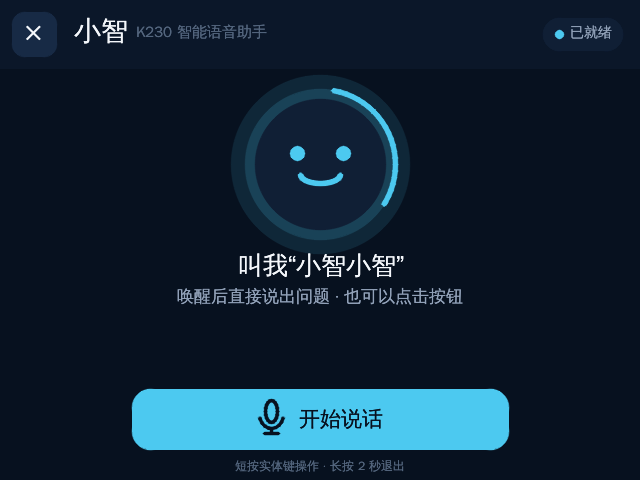
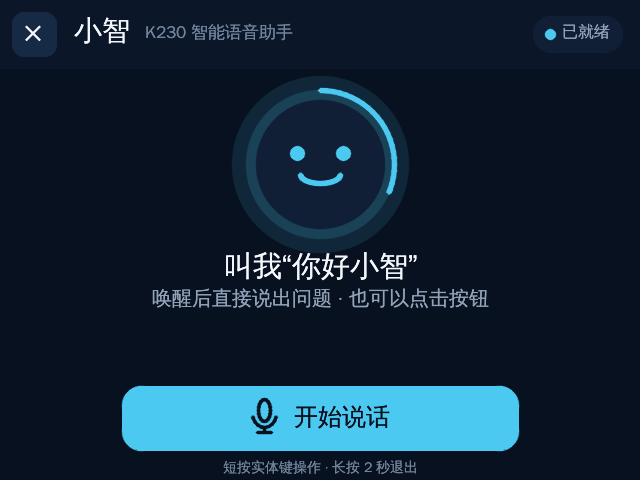
feat(xiaozhi): improve UI readability

diff --git a/app/ai-agent/xiaozhi/main.py b/app/ai-agent/xiaozhi/main.py
@@ -72,8 +72,21 @@ def _text_width(value, height):
         return len(str(value)) * height
 
 
+def fitted_text_height(value, preferred, max_width, minimum):
+    """Return the largest readable font size that fits the available width."""
+    for height in range(preferred, minimum - 1, -1):
+        if _text_width(value, height) <= max_width:
+            return height
+    return minimum
+
+
 def draw_centered(image, value, y, color, height):
     draw_text(image, value, ((SCREEN_W - _text_width(value, height)) // 2, y), color, height)
+
+
+def draw_centered_fitted(image, value, y, color, preferred, max_width, minimum):
+    height = fitted_text_height(value, preferred, max_width, minimum)
+    draw_centered(image, value, y, color, height)
 
 
 def rounded_rect(image, top_left, bottom_right, radius, color):
@@ -96,11 +109,42 @@ def mix_color(first, second, amount):
     return tuple(int(a * (1.0 - amount) + b * amount) for a, b in zip(first, second))
 
 
-def wrap_text(value, width=25, lines=2):
+def _fitting_prefix_length(value, max_width, height):
+    low, high = 1, len(value)
+    best = 1
+    while low <= high:
+        middle = (low + high) // 2
+        if _text_width(value[:middle], height) <= max_width:
+            best = middle
+            low = middle + 1
+        else:
+            high = middle - 1
+    return best
+
+
+def _ellipsize(value, max_width, height):
+    suffix = "…"
+    if _text_width(value, height) <= max_width:
+        return value
+    while value and _text_width(value + suffix, height) > max_width:
+        value = value[:-1]
+    return value.rstrip() + suffix
+
+
+def wrap_text(value, max_width=500, height=20, lines=2):
+    """Wrap mixed CJK/Latin text by rendered width rather than character count."""
     compact = " ".join(str(value or "").split())
     result = []
     while compact and len(result) < lines:
-        take = min(width, len(compact))
+        if _text_width(compact, height) <= max_width:
+            result.append(compact)
+            compact = ""
+            break
+        take = _fitting_prefix_length(compact, max_width, height)
+        if len(result) + 1 == lines:
+            result.append(_ellipsize(compact, max_width, height))
+            compact = ""
+            break
         if take < len(compact):
             # Prefer a word boundary for Latin text without harming CJK text.
             space = compact.rfind(" ", 0, take + 1)
@@ -108,8 +152,6 @@ def wrap_text(value, width=25, lines=2):
                 take = space
         result.append(compact[:take].strip())
         compact = compact[take:].strip()
-    if compact and result:
-        result[-1] = result[-1][:-1] + "…" if result[-1] else "…"
     return result
 
 
@@ -273,7 +315,7 @@ COLORS = {
     "surface_high": _bgr("#172A45"),
     "text": _bgr("#F4F7FB"),
     "muted": _bgr("#91A1B8"),
-    "faint": _bgr("#53657D"),
+    "faint": _bgr("#71839A"),
     "blue": _bgr("#4CC9F0"),
     "cyan": _bgr("#67E8F9"),
     "green": _bgr("#52E0A4"),
@@ -359,49 +401,57 @@ def compose(state, now, pressed=False, localizer=None):
     screen[:] = COLORS["bg"]
     cv2.rectangle(screen, (0, 0), (639, 68), COLORS["header"], -1)
     rounded_rect(screen, (12, 12), (56, 56), 12, COLORS["surface_high"])
-    draw_text(screen, "×", (25, 13), COLORS["text"], 28)
-    app_name = tr("app_name")
-    draw_text(screen, app_name, (74, 13), COLORS["text"], 27)
-    subtitle_x = 74 + _text_width(app_name, 27) + 18
-    draw_text(screen, tr("app_subtitle"), (subtitle_x, 22), COLORS["faint"], 15)
+    draw_text(screen, "×", (24, 12), COLORS["text"], 30)
 
     status_color = PHASE_COLORS.get(state.phase, COLORS["blue"])
     status_text = tr(STATUS_LABELS.get(state.phase, "status_running"))
-    badge_width = _text_width(status_text, 14) + 38
+    status_height = fitted_text_height(status_text, 16, 170, 14)
+    badge_width = min(186, _text_width(status_text, status_height) + 42)
     badge_left = 622 - badge_width
-    rounded_rect(screen, (badge_left, 18), (622, 50), 16, COLORS["surface"])
-    cv2.circle(screen, (badge_left + 16, 34), 4, status_color, -1, cv2.LINE_AA)
-    draw_text(screen, status_text, (badge_left + 27, 23), COLORS["muted"], 14)
+    rounded_rect(screen, (badge_left, 16), (622, 52), 18, COLORS["surface"])
+    cv2.circle(screen, (badge_left + 17, 34), 5, status_color, -1, cv2.LINE_AA)
+    draw_text(screen, status_text, (badge_left + 29, 21), COLORS["muted"], status_height)
+
+    app_name = tr("app_name")
+    app_name_height = 28
+    draw_text(screen, app_name, (74, 12), COLORS["text"], app_name_height)
+    subtitle_x = 74 + _text_width(app_name, app_name_height) + 16
+    subtitle = tr("app_subtitle")
+    subtitle_width = max(0, badge_left - subtitle_x - 14)
+    if subtitle_width >= 72:
+        subtitle_height = fitted_text_height(subtitle, 17, subtitle_width, 14)
+        draw_text(screen, subtitle, (subtitle_x, 21), COLORS["faint"], subtitle_height)
 
     _draw_orb(screen, state, now)
     color = PHASE_COLORS.get(state.phase, COLORS["blue"])
-    draw_centered(screen, state.title, 249, COLORS["text"], 25)
-    draw_centered(screen, state.detail, 285, COLORS["muted"], 17)
+    draw_centered_fitted(screen, state.title, 247, COLORS["text"], 29, 584, 23)
+    draw_centered_fitted(screen, state.detail, 285, COLORS["muted"], 20, 584, 16)
 
     if state.phase == "activating":
-        rounded_rect(screen, (160, 322), (480, 372), 14, COLORS["surface"])
+        rounded_rect(screen, (152, 316), (488, 378), 15, COLORS["surface"])
         spaced = "  ".join(state.activation_code or "------")
-        draw_centered(screen, spaced, 332, COLORS["purple"], 27)
+        draw_centered_fitted(screen, spaced, 330, COLORS["purple"], 30, 304, 24)
     elif state.answer or state.transcript:
         message = state.answer if state.phase == "speaking" and state.answer else state.transcript
-        rounded_rect(screen, (52, 316), (588, 374), 14, COLORS["surface"])
-        for index, line in enumerate(wrap_text(message, 29, 2)):
-            draw_centered(screen, line, 326 + index * 24, COLORS["text"], 17)
+        rounded_rect(screen, (42, 312), (598, 378), 15, COLORS["surface"])
+        for index, line in enumerate(wrap_text(message, 508, 20, 2)):
+            draw_centered(screen, line, 323 + index * 27, COLORS["text"], 20)
 
     disabled = not primary_action_enabled(state.phase)
     button_color = COLORS["surface_high"] if disabled else color
     if pressed and not disabled:
         button_color = mix_color(button_color, COLORS["text"], 0.18)
-    rounded_rect(screen, (132, 389), (508, 449), 18, button_color)
+    rounded_rect(screen, (122, 386), (518, 450), 19, button_color)
     label = button_label(state.phase, localizer)
     label_color = COLORS["muted"] if disabled else COLORS["bg"]
-    group_width = _text_width(label, 21) + (42 if not disabled else 0)
+    label_height = fitted_text_height(label, 24, 328, 20)
+    group_width = _text_width(label, label_height) + (44 if not disabled else 0)
     label_left = (SCREEN_W - group_width) // 2
     if not disabled:
-        _draw_microphone(screen, (label_left + 14, 414), label_color)
-        label_left += 42
-    draw_text(screen, label, (label_left, 405), label_color, 21)
-    draw_centered(screen, tr("hardware_hint"), 458, COLORS["faint"], 12)
+        _draw_microphone(screen, (label_left + 14, 413), label_color)
+        label_left += 44
+    draw_text(screen, label, (label_left, 401), label_color, label_height)
+    draw_centered_fitted(screen, tr("hardware_hint"), 458, COLORS["faint"], 14, 600, 12)
     return screen
 
 

diff --git a/app/ai-agent/xiaozhi/README_EN.md b/app/ai-agent/xiaozhi/README_EN.md
@@ -4,6 +4,24 @@
 
 Xiaozhi is a voice assistant for the WalnutPi CyberCAM. It implements the official Xiaozhi WebSocket protocol and streams 16 kHz mono audio in 60 ms Opus frames.
 
+## Screenshots
+
+### English UI
+
+![Xiaozhi voice assistant demo](./assets/demo-en.gif)
+
+| Waiting for wake word | Listening | Speaking |
+| --- | --- | --- |
+| ![Waiting for wake word](./assets/screen-idle-en.png) | ![Listening](./assets/screen-listening-en.png) | ![Speaking](./assets/screen-speaking-en.png) |
+
+### Chinese UI
+
+![小智语音助手演示](./assets/demo.gif)
+
+| Waiting for wake word | Listening | Speaking |
+| --- | --- | --- |
+| ![待机唤醒](./assets/screen-idle.png) | ![正在聆听](./assets/screen-listening.png) | ![语音回答](./assets/screen-speaking.png) |
+
 ## Features
 
 - Chinese and English UI, status text, controls, and MCP tool descriptions

diff --git a/app/ai-agent/xiaozhi/README.md b/app/ai-agent/xiaozhi/README.md
@@ -6,11 +6,21 @@
 
 ## 效果
 
+### 中文界面
+
 ![小智语音助手演示](./assets/demo.gif)
 
 | 待机唤醒 | 正在聆听 | 语音回答 |
 | --- | --- | --- |
 | ![待机唤醒](./assets/screen-idle.png) | ![正在聆听](./assets/screen-listening.png) | ![语音回答](./assets/screen-speaking.png) |
+
+### 英文界面
+
+![Xiaozhi voice assistant demo](./assets/demo-en.gif)
+
+| Waiting for wake word | Listening | Speaking |
+| --- | --- | --- |
+| ![Waiting for wake word](./assets/screen-idle-en.png) | ![Listening](./assets/screen-listening-en.png) | ![Speaking](./assets/screen-speaking-en.png) |
 
 ## 功能
 
